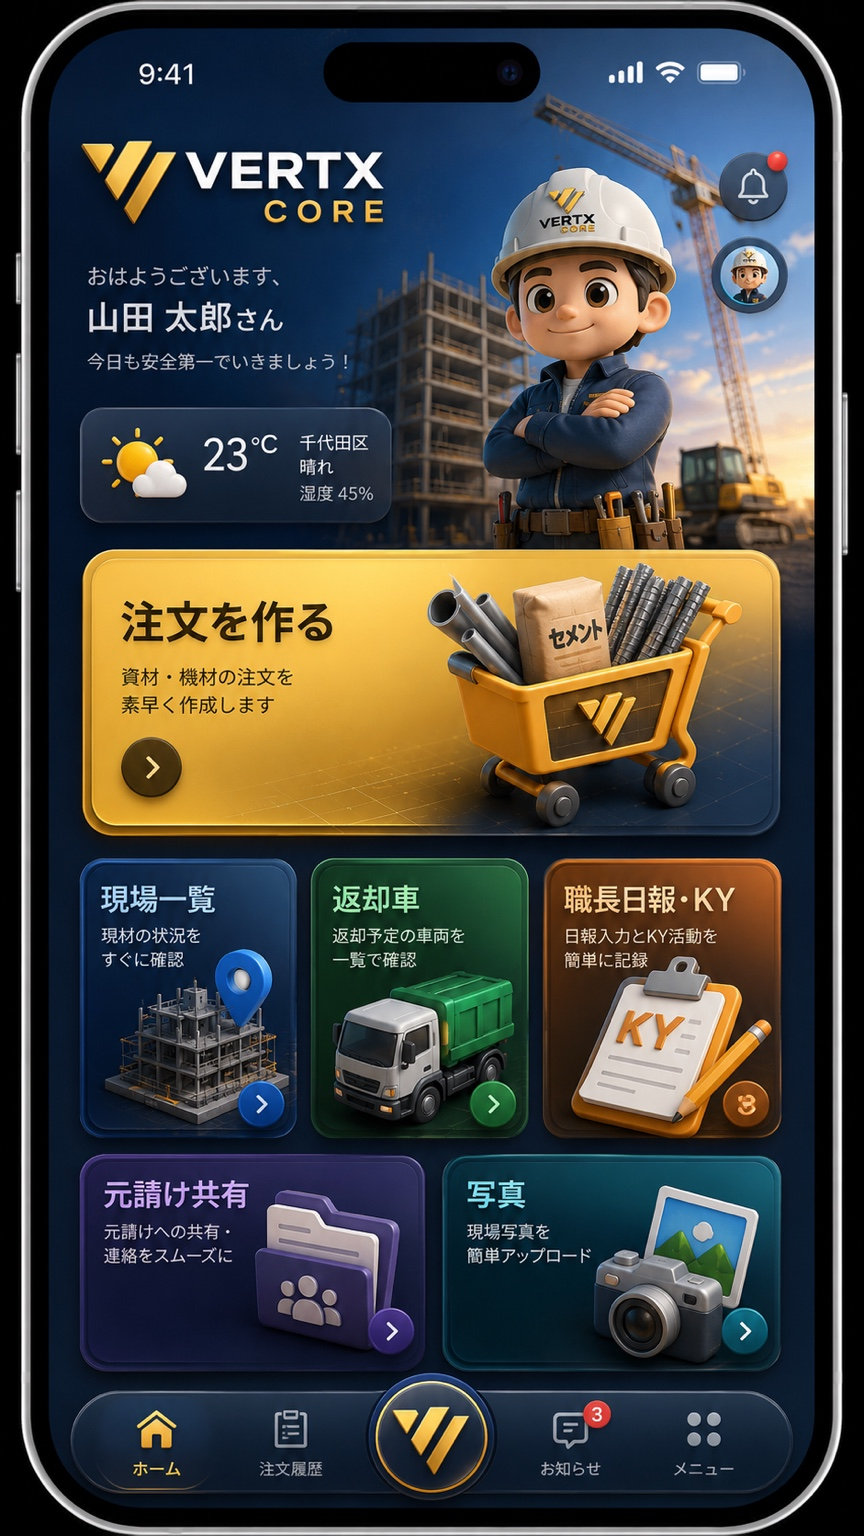
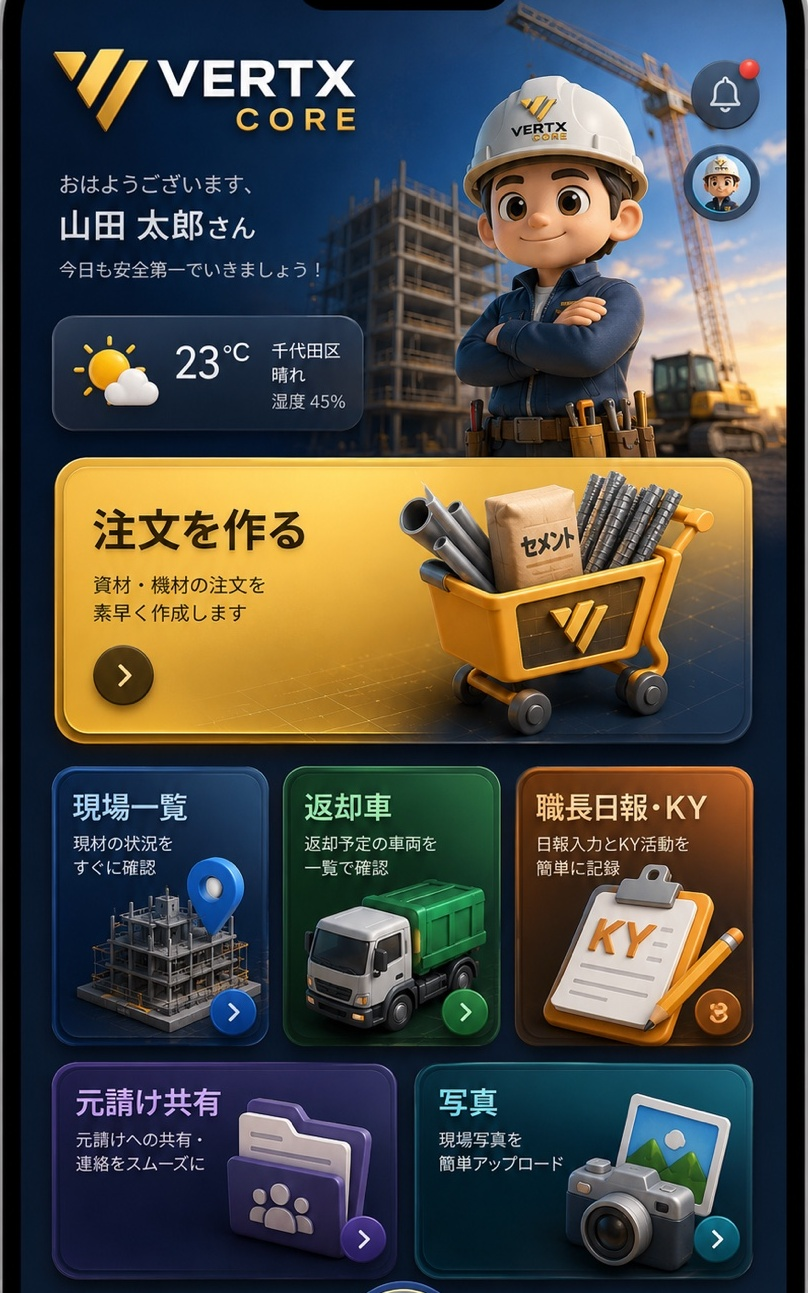
Add files via upload

diff --git a/style.css b/style.css
@@ -764,3 +764,146 @@ select option{background:#061426!important;color:#fff!important}
 /* ===== VERTX CORE v7.33 EXACT SYSTEM PASS ===== */
 .quick-action-modal{position:fixed;inset:0;z-index:1200;display:grid;align-items:end;background:rgba(0,0,0,.68);backdrop-filter:blur(8px);padding:12px}.quick-action-modal.hidden{display:none}.quick-action-sheet{width:min(100%,680px);margin:0 auto;padding:12px 14px calc(18px + env(safe-area-inset-bottom));border-radius:28px;background:linear-gradient(180deg,#123152,#061426);border:1px solid rgba(116,171,226,.3);box-shadow:0 28px 70px rgba(0,0,0,.55);color:#fff}.quick-action-handle{width:44px;height:5px;border-radius:999px;background:#68819b;margin:0 auto 12px}.quick-action-head{display:flex;align-items:center;justify-content:space-between;gap:12px}.quick-action-head span{display:block;color:var(--v731-gold2);font-size:9px;letter-spacing:.22em;font-weight:950}.quick-action-head h3{margin:4px 0 0;color:#fff;font-size:26px;letter-spacing:-.04em}.quick-action-head button{width:42px;height:42px;border-radius:14px;border:1px solid rgba(119,172,225,.25);background:#081a2f;color:#fff;font-size:24px}.quick-action-lead{margin:8px 0 14px;color:#aebfd1;font-size:13px}.quick-action-grid{display:grid;grid-template-columns:1fr 1fr;gap:10px}.quick-action-grid button{min-height:105px;padding:14px;text-align:left;border-radius:20px;border:1px solid rgba(114,169,225,.22);background:linear-gradient(145deg,#16395f,#081b30);color:#fff;box-shadow:0 12px 24px rgba(0,0,0,.25)}.quick-action-grid button:active{transform:scale(.985)}.quick-action-grid span{display:grid;place-items:center;width:38px;height:38px;border-radius:13px;margin-bottom:10px;background:linear-gradient(145deg,#ffd760,#d8870a);color:#10151b;font-size:18px;font-weight:1000}.quick-action-grid b{display:block;color:#fff;font-size:16px;font-weight:950}.quick-action-grid small{display:block;margin-top:4px;color:#aebfd1;font-size:11px}.screen:not(.exact-home) button{letter-spacing:-.015em}.screen:not(.exact-home) .primary-btn,.screen:not(.exact-home) .secondary-btn{font-weight:900}.screen:not(.exact-home) .context-help-btn{flex:0 0 auto;background:linear-gradient(145deg,#ffd760,#cf8109)!important;color:#111!important;border:1px solid #ffe59a!important;box-shadow:0 8px 18px rgba(0,0,0,.24)!important}.manual-step summary,.control-section button,.history-item,.site-card,.material{font-family:-apple-system,BlinkMacSystemFont,"Hiragino Kaku Gothic ProN","Yu Gothic","Noto Sans JP",sans-serif}
 @media(max-width:420px){.quick-action-grid button{min-height:96px;padding:12px}.quick-action-head h3{font-size:24px}}
+
+/* ===== VERTX CORE v7.34 HOME SCROLL ART ===== */
+/* HOMEの参照ビジュアルは固定背景ではなく、ページ本体の一部として自然に縦スクロールする */
+body:has(.exact-home.active){
+  overflow-y:auto!important;
+  -webkit-overflow-scrolling:touch!important;
+  overscroll-behavior-y:auto!important;
+  background:#020812!important;
+}
+body:has(.exact-home.active) .app-shell,
+body:has(.exact-home.active) main,
+body:has(.exact-home.active) .exact-home{
+  height:auto!important;
+  min-height:0!important;
+  overflow:visible!important;
+  position:relative!important;
+}
+body:has(.exact-home.active) .app-shell{
+  max-width:720px!important;
+  margin:0 auto!important;
+  padding:0!important;
+}
+.exact-home{
+  margin:0!important;
+  padding:0!important;
+  width:100%!important;
+  background:#020812!important;
+  touch-action:pan-y!important;
+}
+.exact-home-stage{
+  position:relative!important;
+  inset:auto!important;
+  width:100%!important;
+  height:auto!important;
+  min-height:0!important;
+  overflow:visible!important;
+  transform:none!important;
+  background:#020812!important;
+  touch-action:pan-y!important;
+}
+.exact-home-art{
+  position:relative!important;
+  inset:auto!important;
+  display:block!important;
+  width:100%!important;
+  max-width:100%!important;
+  height:auto!important;
+  min-height:0!important;
+  object-fit:contain!important;
+  object-position:top center!important;
+  transform:none!important;
+  will-change:auto!important;
+  background-attachment:scroll!important;
+  pointer-events:none!important;
+}
+.exact-home .home-hotspot{
+  position:absolute!important;
+  touch-action:manipulation!important;
+}
+/* iPhone SafariでHOMEを開いたままでも画面全体が通常スクロールする */
+@supports (-webkit-touch-callout:none){
+  body:has(.exact-home.active),
+  body:has(.exact-home.active) .app-shell,
+  body:has(.exact-home.active) main,
+  .exact-home,
+  .exact-home-stage{
+    -webkit-transform:none!important;
+    transform:none!important;
+  }
+}
+
+/* ============================================================
+   VERTX CORE v7.35 — FULLSCREEN HOME / REAL NAV
+   - remove rendered phone frame from HOME artwork
+   - artwork fills the app viewport width
+   - use the real interactive dock on HOME (no duplicate baked nav)
+   ============================================================ */
+body:has(.exact-home.active){
+  background:#020812!important;
+  overflow-x:hidden!important;
+}
+body:has(.exact-home.active) .topbar{display:none!important}
+body:has(.exact-home.active) .app-shell{
+  width:100%!important;
+  max-width:720px!important;
+  margin:0 auto!important;
+  padding:0 0 calc(96px + env(safe-area-inset-bottom))!important;
+  background:#020812!important;
+  overflow:visible!important;
+}
+body:has(.exact-home.active) main{width:100%!important;overflow:visible!important}
+.exact-home{
+  width:100%!important;
+  margin:0!important;
+  padding:0!important;
+  background:#020812!important;
+  overflow:visible!important;
+}
+.exact-home-stage{
+  position:relative!important;
+  width:100vw!important;
+  max-width:720px!important;
+  margin-left:50%!important;
+  transform:translateX(-50%)!important;
+  background:#020812!important;
+  overflow:hidden!important;
+  border:0!important;
+  border-radius:0!important;
+  box-shadow:none!important;
+}
+.exact-home-art{
+  display:block!important;
+  width:100%!important;
+  height:auto!important;
+  max-width:none!important;
+  object-fit:cover!important;
+  object-position:top center!important;
+  border:0!important;
+  border-radius:0!important;
+  box-shadow:none!important;
+  pointer-events:none!important;
+}
+/* Hotspots recalibrated for the cropped, bezel-free artwork. */
+.hs-order{left:5.8%!important;top:35.4%!important;width:88.3%!important;height:21.7%!important}
+.hs-sites{left:5.9%!important;top:58.9%!important;width:28.9%!important;height:20.4%!important}
+.hs-return{left:35.5%!important;top:58.9%!important;width:28.9%!important;height:20.4%!important}
+.hs-ky{left:64.6%!important;top:58.9%!important;width:29.4%!important;height:20.4%!important}
+.hs-share{left:5.9%!important;top:80.7%!important;width:43.9%!important;height:16.4%!important}
+.hs-photo{left:50.9%!important;top:80.7%!important;width:43.3%!important;height:16.4%!important}
+/* HOME now uses the actual app dock; it scrolls independently from the artwork. */
+body:has(.exact-home.active) .bottom-nav{
+  display:grid!important;
+  position:fixed!important;
+  z-index:100!important;
+  left:max(10px,calc((100vw - 700px)/2))!important;
+  right:max(10px,calc((100vw - 700px)/2))!important;
+  bottom:calc(8px + env(safe-area-inset-bottom))!important;
+}
+@media(max-width:430px){
+  body:has(.exact-home.active) .app-shell{padding-bottom:calc(92px + env(safe-area-inset-bottom))!important}
+  .exact-home-stage{width:100vw!important;max-width:none!important}
+  body:has(.exact-home.active) .bottom-nav{left:8px!important;right:8px!important}
+}

diff --git a/app.js b/app.js
@@ -1,4 +1,4 @@
-const VERTX_BUILD='7.33.0';
+const VERTX_BUILD='7.34.0';
 // VERTX CORE v5.8 NEXT UI + BILLING
 const VERTX_SESSION_KEY='vertx_core_company_session';
 let supabaseClient=null;
@@ -47,7 +47,7 @@ async function runSystemCheck(){
   checks.push(['資材ID重複',new Set(ids).size===ids.length,`${ids.length}件`]);
   checks.push(['資材名重複',new Set(names).size===names.length,`${names.length}件`]);
   checks.push(['注文下書き',true,Object.keys(state.cart||{}).length?`${Object.keys(state.cart).length}種類保存中`:'空']);
-  const coreIssues=runCoreSelfCheck();checks.push(['画面・ボタン整合性',coreIssues.length===0,coreIssues.length?coreIssues.slice(0,3).join(' / '):'主要画面・リンクOK']);checks.push(['ビルド',VERTX_BUILD==='7.33.0',`v${VERTX_BUILD}`]);
+  const coreIssues=runCoreSelfCheck();checks.push(['画面・ボタン整合性',coreIssues.length===0,coreIssues.length?coreIssues.slice(0,3).join(' / '):'主要画面・リンクOK']);checks.push(['ビルド',VERTX_BUILD==='7.34.0',`v${VERTX_BUILD}`]);
   try{const r=await fetch('/api/config',{cache:'no-store'});const cfg=await r.json();checks.push(['クラウド設定',Boolean(cfg.configured),cfg.configured?'Supabase OK':'設定不足']);checks.push(['AI/課金API',r.ok,r.ok?'API応答OK':'API応答エラー']);}catch(e){checks.push(['API接続',false,'接続できません']) }
   out.innerHTML=checks.map(([n,ok,d])=>`<div class="dev-check-row ${ok?'ok':'ng'}"><span>${ok?'✓':'!'} ${escapeHtml(n)}</span><small>${escapeHtml(d)}</small></div>`).join('');
   audit('システム診断',checks.every(x=>x[1])?'PASS':'要確認');
@@ -311,7 +311,7 @@ function printOrderById(id){const o=getHistory().find(x=>x.id===id);if(o)printOr
 function printDraft(){const o=currentDraft();if(!o.items.length)return toast('資材を選択してください');printOrder(o)}
 async function printOrder(o){
   const area=$('#printArea');
-  area.innerHTML=`<div class="print-sheet" style="display:block;background:#fff;color:#111;width:794px;min-height:1123px;padding:48px;box-sizing:border-box;font-family:-apple-system,BlinkMacSystemFont,'Noto Sans JP','Yu Gothic',sans-serif"><h1 style="font-size:28px;margin:0 0 28px">VERTX CORE 資材注文書</h1><p>現場：<b>${escapeHtml(o.site)}</b></p>${o.date?`<p>希望日：${escapeHtml(o.date)}</p>`:''}<p>合計：<b>${o.qty}点</b>　合計重量：<b>${formatWeight(o.weight)}</b></p><p>推奨車両：<b>${escapeHtml(o.truck||truckFor(o.weight))}</b></p>${o.drawingId?`<p>添付図面：<b>${escapeHtml(o.drawingName||'図面')}</b></p>`:''}<table style="width:100%;border-collapse:collapse;margin-top:24px"><thead><tr><th style="border:1px solid #999;padding:9px;text-align:left">資材名</th><th style="border:1px solid #999;padding:9px">数量</th><th style="border:1px solid #999;padding:9px">単重</th><th style="border:1px solid #999;padding:9px">重量</th></tr></thead><tbody>${o.items.map(i=>`<tr><td style="border:1px solid #bbb;padding:9px">${escapeHtml(i.name)}</td><td style="border:1px solid #bbb;padding:9px;text-align:center">${i.qty}${escapeHtml(i.unit)}</td><td style="border:1px solid #bbb;padding:9px;text-align:right">${Number(i.weight).toFixed(2)}kg</td><td style="border:1px solid #bbb;padding:9px;text-align:right">${(i.qty*i.weight).toFixed(1)}kg</td></tr>`).join('')}</tbody></table>${o.memo?`<p style="margin-top:24px">メモ：${escapeHtml(o.memo)}</p>`:''}<p style="margin-top:32px;font-size:11px;color:#666">VERTX CORE v7.33</p></div>`;
+  area.innerHTML=`<div class="print-sheet" style="display:block;background:#fff;color:#111;width:794px;min-height:1123px;padding:48px;box-sizing:border-box;font-family:-apple-system,BlinkMacSystemFont,'Noto Sans JP','Yu Gothic',sans-serif"><h1 style="font-size:28px;margin:0 0 28px">VERTX CORE 資材注文書</h1><p>現場：<b>${escapeHtml(o.site)}</b></p>${o.date?`<p>希望日：${escapeHtml(o.date)}</p>`:''}<p>合計：<b>${o.qty}点</b>　合計重量：<b>${formatWeight(o.weight)}</b></p><p>推奨車両：<b>${escapeHtml(o.truck||truckFor(o.weight))}</b></p>${o.drawingId?`<p>添付図面：<b>${escapeHtml(o.drawingName||'図面')}</b></p>`:''}<table style="width:100%;border-collapse:collapse;margin-top:24px"><thead><tr><th style="border:1px solid #999;padding:9px;text-align:left">資材名</th><th style="border:1px solid #999;padding:9px">数量</th><th style="border:1px solid #999;padding:9px">単重</th><th style="border:1px solid #999;padding:9px">重量</th></tr></thead><tbody>${o.items.map(i=>`<tr><td style="border:1px solid #bbb;padding:9px">${escapeHtml(i.name)}</td><td style="border:1px solid #bbb;padding:9px;text-align:center">${i.qty}${escapeHtml(i.unit)}</td><td style="border:1px solid #bbb;padding:9px;text-align:right">${Number(i.weight).toFixed(2)}kg</td><td style="border:1px solid #bbb;padding:9px;text-align:right">${(i.qty*i.weight).toFixed(1)}kg</td></tr>`).join('')}</tbody></table>${o.memo?`<p style="margin-top:24px">メモ：${escapeHtml(o.memo)}</p>`:''}<p style="margin-top:32px;font-size:11px;color:#666">VERTX CORE v7.34</p></div>`;
   const sheet=area.firstElementChild;
   try{
     if(!window.html2canvas||!window.jspdf?.jsPDF)throw new Error('PDF機能の読み込みに失敗しました');
@@ -1210,9 +1210,9 @@ function runCoreSelfCheck(){
   const screens=new Set(Array.from(document.querySelectorAll('section.screen[id]')).map(x=>x.id));
   document.querySelectorAll('[data-go]').forEach(el=>{const target=el.dataset.go;if(target&&!screens.has(target))issues.push('リンク先不足:'+target)});
   ['searchInput','toConfirmBtn','submitOrderBtn','runAiBtn','voiceStartBtn','runPhotoAiBtn','requestReturnTruckBtn','saveDailyReportBtn','publishShareBtn','openFullManual'].forEach(id=>{if(!document.getElementById(id))issues.push('操作部品不足:'+id)});
-  if(VERTX_BUILD!=='7.33.0')issues.push('ビルド番号不一致:'+VERTX_BUILD);
+  if(VERTX_BUILD!=='7.34.0')issues.push('ビルド番号不一致:'+VERTX_BUILD);
   const unique=[...new Set(issues)];
-  if(unique.length)console.warn('CORE SELF CHECK',unique);else console.info('CORE SELF CHECK PASS v7.33');
+  if(unique.length)console.warn('CORE SELF CHECK',unique);else console.info('CORE SELF CHECK PASS v7.34');
   return unique;
 }
 

diff --git a/index.html b/index.html
@@ -4,8 +4,8 @@
   <meta charset="utf-8">
   <meta name="viewport" content="width=device-width, initial-scale=1, viewport-fit=cover">
   <meta name="theme-color" content="#03101f">
-  <title>VERTX CORE v7.33 EXACT SYSTEM</title>
-  <link rel="stylesheet" href="style.css?v=7.33.0">
+  <title>VERTX CORE v7.35 FULLSCREEN HOME</title>
+  <link rel="stylesheet" href="style.css?v=7.34.0">
 </head>
 <body>
   <div id="cloudAuthGate" class="company-gate">
@@ -40,7 +40,7 @@
     <header class="topbar">
       <div>
         <p class="eyebrow">VERTX</p>
-        <h1>CORE <span>v7.33 EXACT SYSTEM</span></h1>
+        <h1>CORE <span>v7.35 FULLSCREEN HOME</span></h1>
       </div>
       <div class="company-top-actions"><button id="companyBadge" class="company-badge" type="button">会社未選択</button><button id="resetBtn" class="icon-btn" aria-label="データを初期化">↻</button></div>
     </header>
@@ -55,10 +55,6 @@
           <button class="home-hotspot hs-ky" data-go="dailyReport" aria-label="職長日報・KY"></button>
           <button class="home-hotspot hs-share" data-go="clientShare" aria-label="元請け共有"></button>
           <button class="home-hotspot hs-photo" data-go="siteAlbum" aria-label="写真"></button>
-          <button class="home-hotspot hs-history" data-go="history" aria-label="注文履歴"></button>
-          <button class="home-hotspot hs-center" id="homeQuickActionBtn" type="button" aria-label="クイック操作"></button>
-          <button class="home-hotspot hs-notice" data-go="more" aria-label="お知らせ"></button>
-          <button class="home-hotspot hs-menu" data-go="more" aria-label="メニュー"></button>
         </div>
         <div id="adminOpsSummary" class="admin-ops-summary hidden"></div>
         <span id="todayCount" class="hidden">0</span><span id="historyCount" class="hidden">0</span>
@@ -650,6 +646,6 @@
   <script src="https://cdn.jsdelivr.net/npm/@supabase/supabase-js@2"></script>
   <script src="https://cdn.jsdelivr.net/npm/html2canvas@1.4.1/dist/html2canvas.min.js"></script>
   <script src="https://cdn.jsdelivr.net/npm/jspdf@2.5.2/dist/jspdf.umd.min.js"></script>
-  <script src="app.js?v=7.33.0"></script>
+  <script src="app.js?v=7.34.0"></script>
 </body>
 </html>

diff --git a/RELEASE_NOTES_V7_35.md b/RELEASE_NOTES_V7_35.md
@@ -1,0 +1,8 @@
+# VERTX CORE v7.35 — FULLSCREEN HOME
+
+- HOMEの参考画像からiPhoneの外枠・ステータス部・画像内の重複Dockを除去。
+- HOMEデザインを画面幅いっぱいに表示。
+- HOMEでも本物の下部ナビを表示し、画像内の偽Dockと二重にならないよう整理。
+- 実ナビをHOME/SITES/ORDER/AI/MOREとして固定し、注文ボタンを中央に配置。
+- HOMEの主要カード用タップ領域をトリミング後の座標へ再調整。
+- 既存の注文・返却・KY・元請け共有・写真・AI等の機能は維持。

diff --git a/RELEASE_NOTES_V7_34.md b/RELEASE_NOTES_V7_34.md
@@ -1,0 +1,6 @@
+# VERTX CORE v7.34 — HOME SCROLL ART
+
+- HOMEのデザイン画像を固定背景扱いにせず、ページ本体の一部として通常スクロール
+- iPhone Safari向けに `position / overflow / transform / touch-action` を整理
+- HOMEの透明ホットスポットは画像上の位置を維持し、スクロールと一緒に移動
+- 既存の全ページデザイン、権限、AI、返却、KY、元請け共有機能は維持
